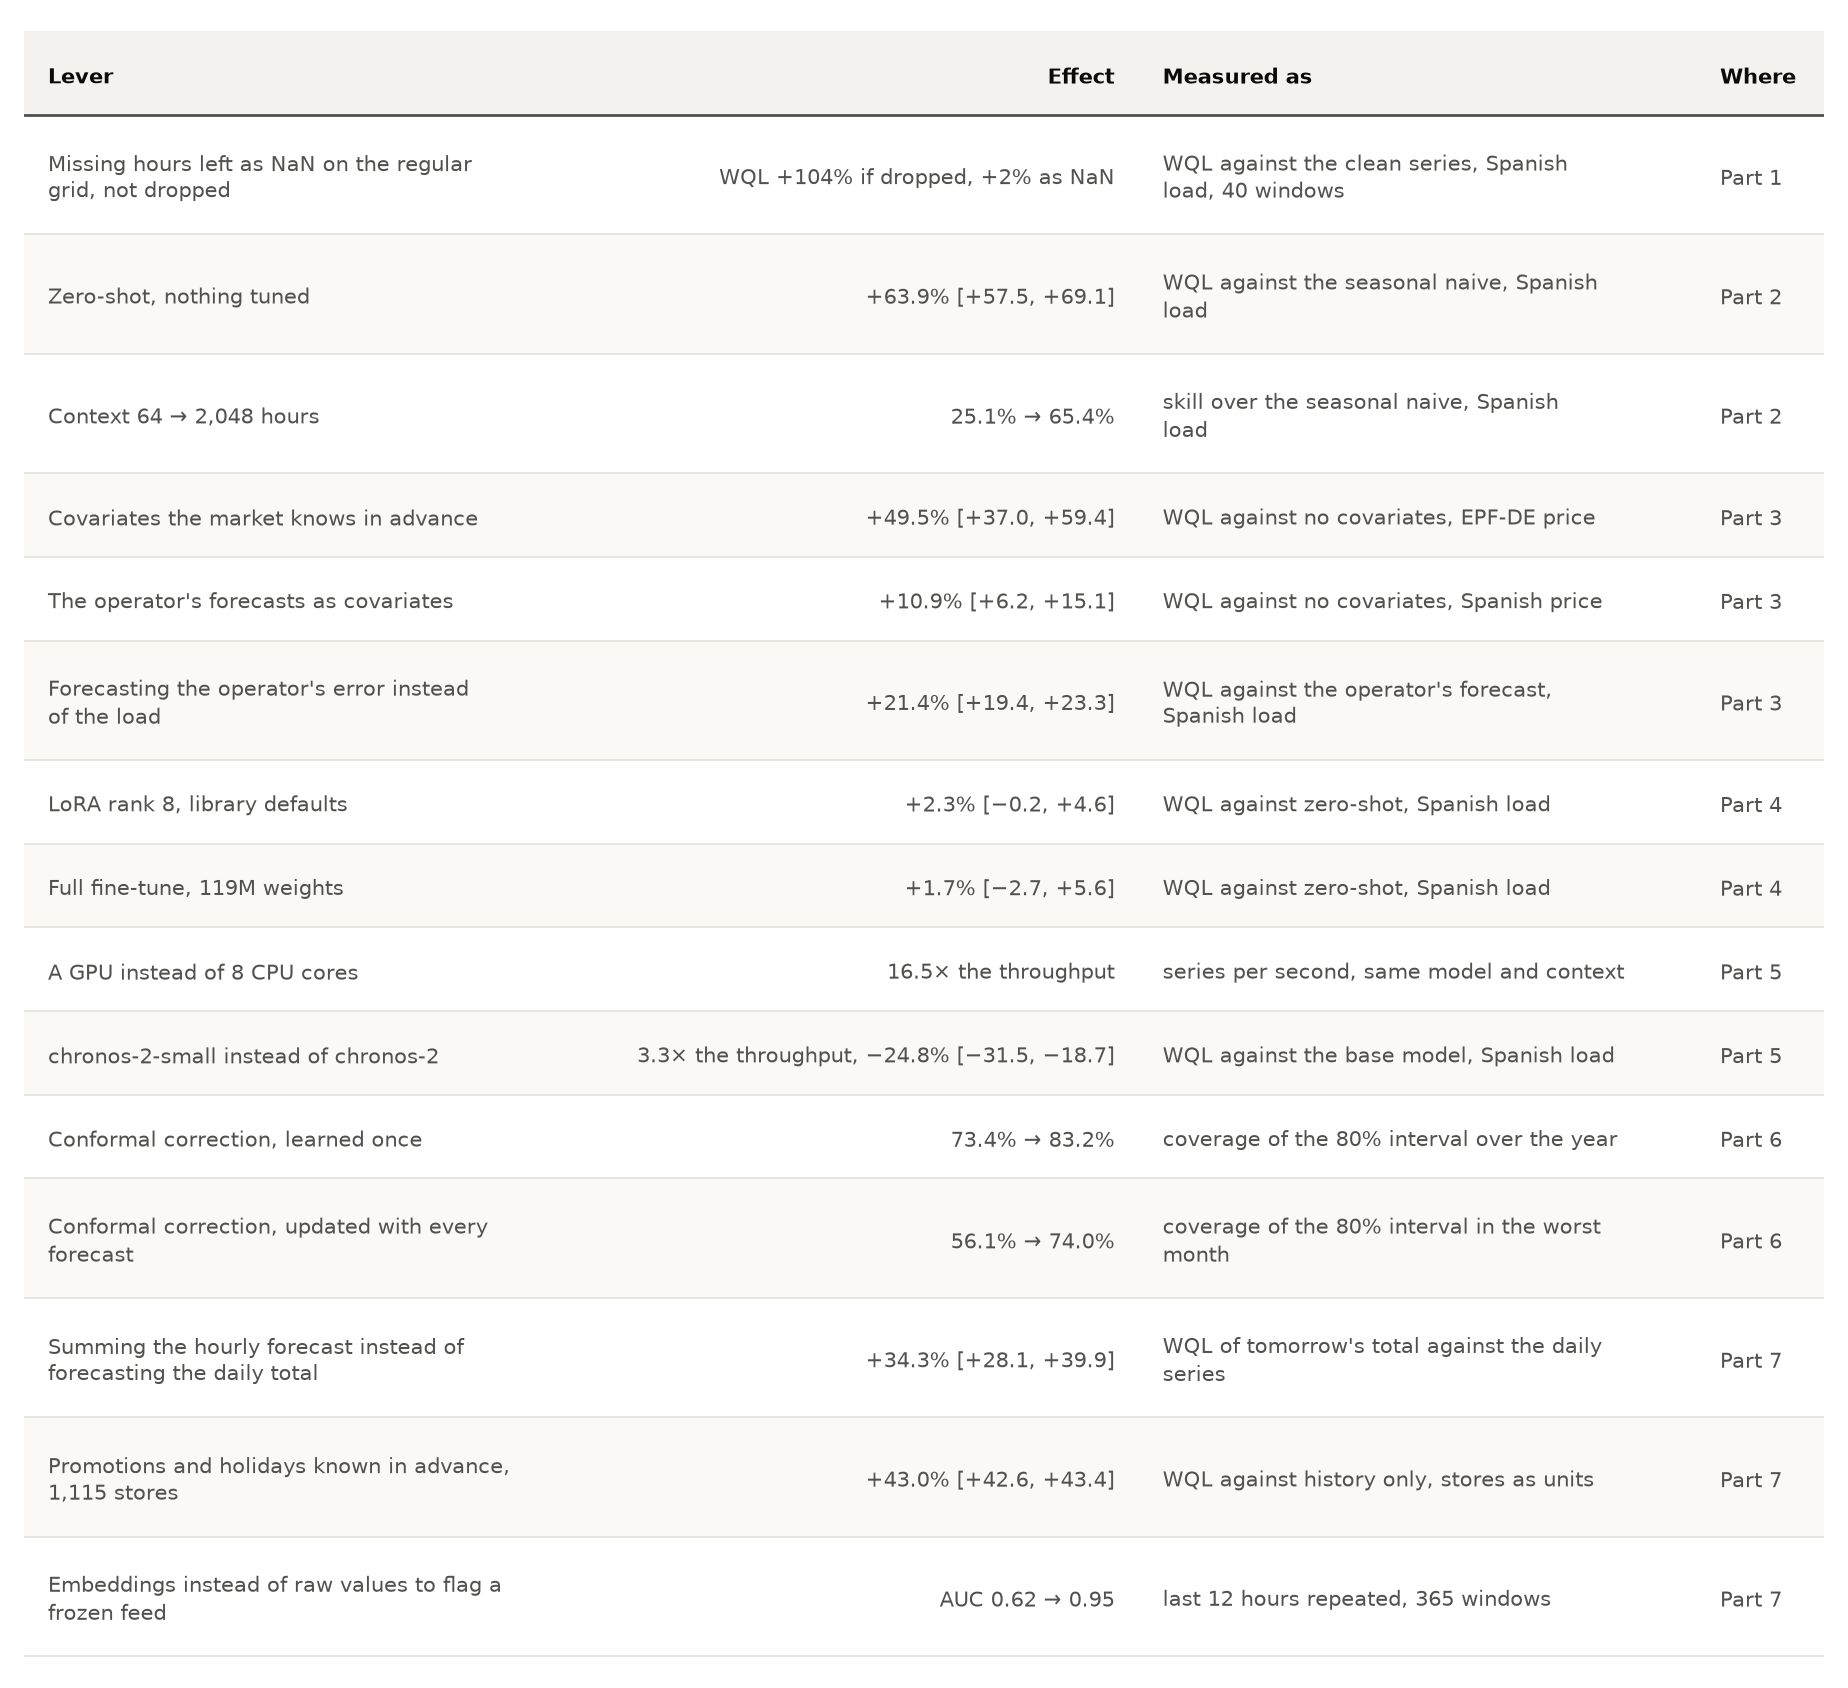
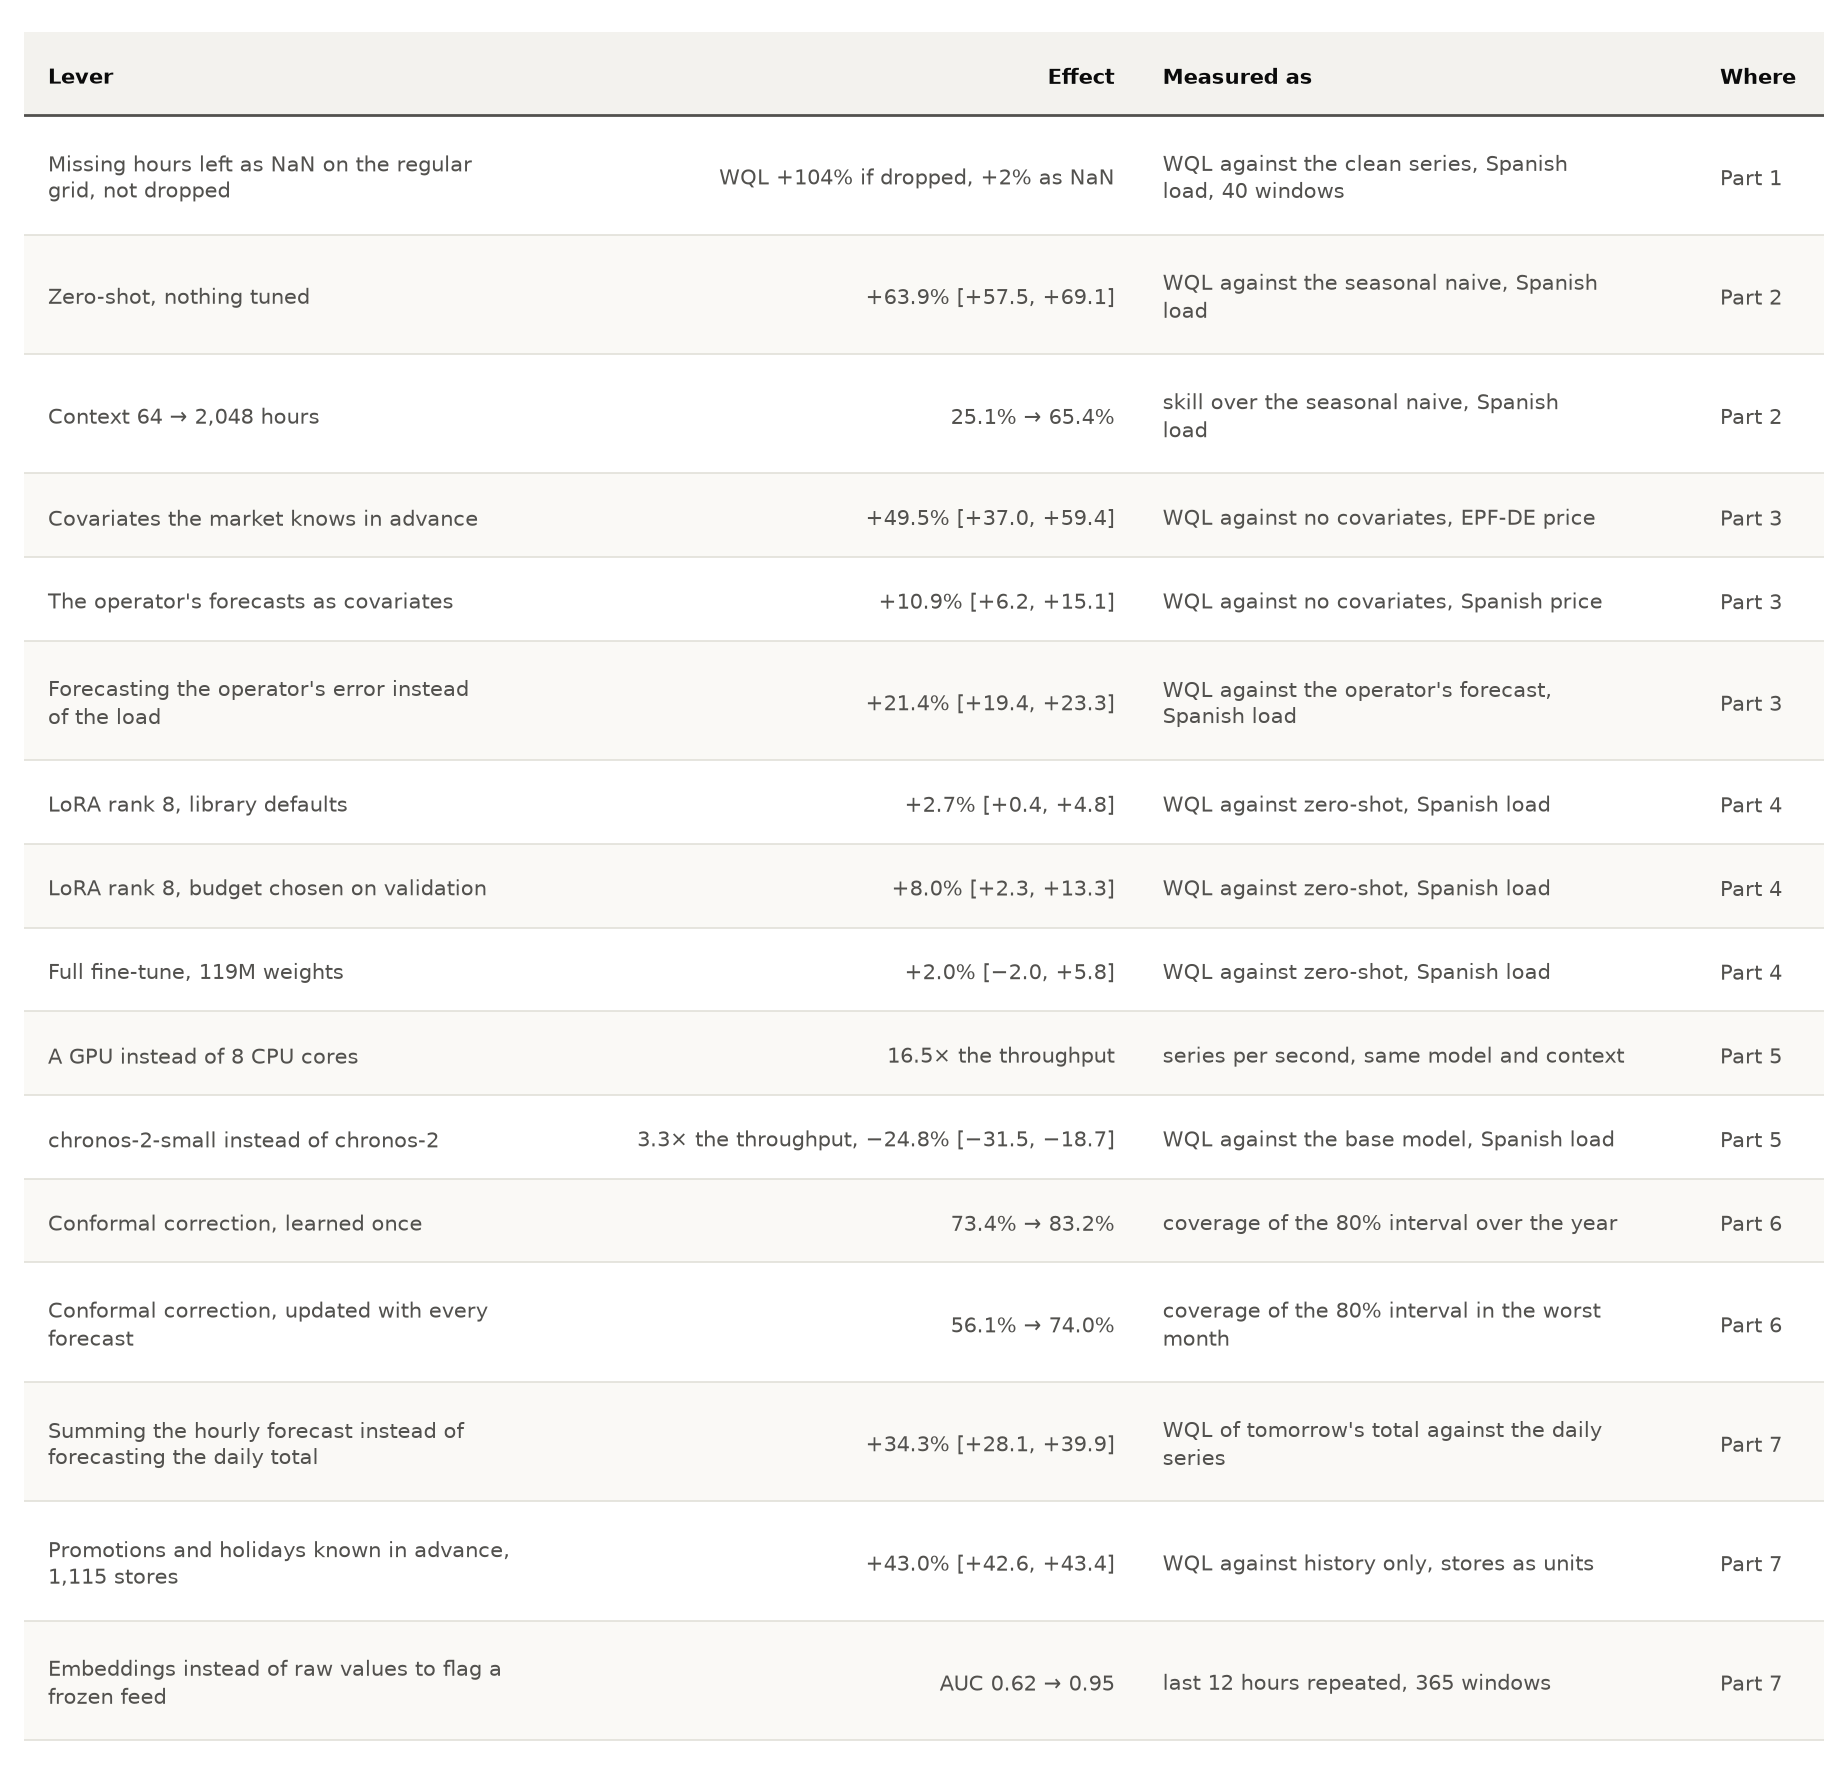
Parts 6 and 7 follow Part 4's new numbers; series summary regenerated

diff --git a/articles/07-beyond-one-hourly-series.md b/articles/07-beyond-one-hourly-series.md
@@ -375,8 +375,9 @@ read from a results file by
 | Covariates the market knows in advance | +49.5% [+37.0, +59.4] | WQL against no covariates, EPF-DE price | Part 3 |
 | The operator's forecasts as covariates | +10.9% [+6.2, +15.1] | WQL against no covariates, Spanish price | Part 3 |
 | Forecasting the operator's error instead of the load | +21.4% [+19.4, +23.3] | WQL against the operator's forecast, Spanish load | Part 3 |
-| LoRA rank 8, library defaults | +2.3% [−0.2, +4.6] | WQL against zero-shot, Spanish load | Part 4 |
-| Full fine-tune, 119M weights | +1.7% [−2.7, +5.6] | WQL against zero-shot, Spanish load | Part 4 |
+| LoRA rank 8, library defaults | +2.7% [+0.4, +4.8] | WQL against zero-shot, Spanish load | Part 4 |
+| LoRA rank 8, budget chosen on validation | +8.0% [+2.3, +13.3] | WQL against zero-shot, Spanish load | Part 4 |
+| Full fine-tune, 119M weights | +2.0% [−2.0, +5.8] | WQL against zero-shot, Spanish load | Part 4 |
 | A GPU instead of 8 CPU cores | 16.5× the throughput | series per second, same model and context | Part 5 |
 | `chronos-2-small` instead of `chronos-2` | 3.3× the throughput, −24.8% [−31.5, −18.7] | WQL against the base model, Spanish load | Part 5 |
 | Conformal correction, learned once | 73.4% → 83.2% | coverage of the 80% interval over the year | Part 6 |
@@ -387,8 +388,9 @@ read from a results file by
 
 The rows sit on different scales and different targets. What the table shows is an ordering, not
 a sum. The large effects come from giving the model something: enough history, a regular grid,
-the future values of what is known. Changing the weights moved the number least, and a smaller
-model moved it down.
+the future values of what is known. Changing the weights moved the number less: two to three
+percent at the library's defaults, 8% with a budget chosen on a validation period, and that
+adapter was worse on a series it was not trained on. A smaller model moved the number down.
 
 What did not move it is as useful to know. Forecasting load jointly with price
 (−1.3% [−4.5, +1.8]). Calendar features on top of a model that already reads the clock

diff --git a/articles/06-monitoring-and-calibrated-intervals.md b/articles/06-monitoring-and-calibrated-intervals.md
@@ -120,11 +120,13 @@ first time in an episode:
 3. Promote the new adapter only if the interval excludes zero and the coverage of the 80% band
    is not worse. Otherwise keep what is deployed.
 
-The held-out weeks matter: an adapter scored on windows it was trained on will always look better.
-And step 3 will usually say no. Part 4's fine-tuning gains on this series are a few percent, and a
-few weeks of daily windows cannot separate a few percent from zero; Part 2 needed a full year to
-put an interval of twelve points around a skill score. That is the rule working as intended. It
-exists to stop a reflexive retrain after a cold week, not to schedule one.
+The held-out weeks matter: an adapter scored on windows it was trained on will always look better,
+and Part 4's adapter kept less than half of the gain its validation period had shown. Step 3 will
+also usually say no. Part 4's fine-tuning gains on this series run from 2% to 8% with intervals
+several points wide on a full year of windows, and a few weeks of daily windows cannot separate
+gains of that size from zero; Part 2 needed a full year to put an interval of twelve points around
+a skill score. That is the rule working as intended. It exists to stop a reflexive retrain after a
+cold week, not to schedule one.
 
 What a breach episode in winter does call for is cheaper than a new adapter. In the four episodes
 of 2018 the model was more confident than it should have been, which is a calibration problem, and

diff --git a/articles/medium/06-monitoring-and-calibrated-intervals.md b/articles/medium/06-monitoring-and-calibrated-intervals.md
@@ -119,11 +119,13 @@ first time in an episode:
 3. Promote the new adapter only if the interval excludes zero and the coverage of the 80% band
    is not worse. Otherwise keep what is deployed.
 
-The held-out weeks matter: an adapter scored on windows it was trained on will always look better.
-And step 3 will usually say no. Part 4's fine-tuning gains on this series are a few percent, and a
-few weeks of daily windows cannot separate a few percent from zero; Part 2 needed a full year to
-put an interval of twelve points around a skill score. That is the rule working as intended. It
-exists to stop a reflexive retrain after a cold week, not to schedule one.
+The held-out weeks matter: an adapter scored on windows it was trained on will always look better,
+and Part 4's adapter kept less than half of the gain its validation period had shown. Step 3 will
+also usually say no. Part 4's fine-tuning gains on this series run from 2% to 8% with intervals
+several points wide on a full year of windows, and a few weeks of daily windows cannot separate
+gains of that size from zero; Part 2 needed a full year to put an interval of twelve points around
+a skill score. That is the rule working as intended. It exists to stop a reflexive retrain after a
+cold week, not to schedule one.
 
 What a breach episode in winter does call for is cheaper than a new adapter. In the four episodes
 of 2018 the model was more confident than it should have been, which is a calibration problem, and

diff --git a/articles/medium/07-beyond-one-hourly-series.md b/articles/medium/07-beyond-one-hourly-series.md
@@ -350,8 +350,9 @@ read from a results file by
 
 The rows sit on different scales and different targets. What the table shows is an ordering, not
 a sum. The large effects come from giving the model something: enough history, a regular grid,
-the future values of what is known. Changing the weights moved the number least, and a smaller
-model moved it down.
+the future values of what is known. Changing the weights moved the number less: two to three
+percent at the library's defaults, 8% with a budget chosen on a validation period, and that
+adapter was worse on a series it was not trained on. A smaller model moved the number down.
 
 What did not move it is as useful to know. Forecasting load jointly with price
 (−1.3% [−4.5, +1.8]). Calendar features on top of a model that already reads the clock
